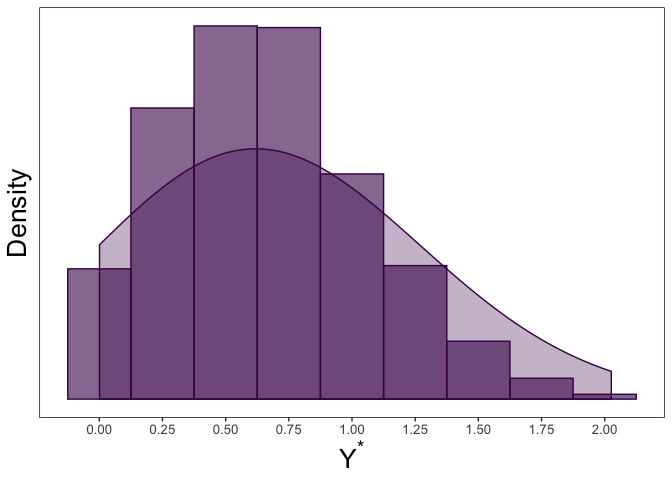
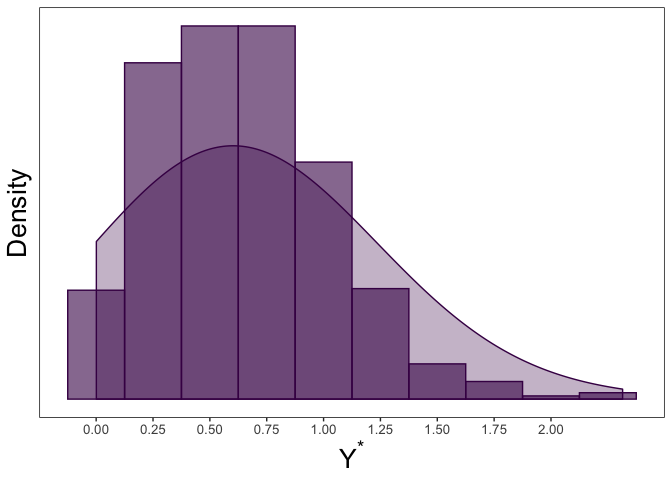
changing installation title to proper package name on README

diff --git a/README.md b/README.md
@@ -1,4 +1,5 @@
-Maximum Likelihood Estimation of a Truncated Normal Distribution with Censored Data
+Maximum Likelihood Estimation of a Truncated Normal Distribution with
+Censored Data
 ================
 
 The goal of this package is to estimate parameters from a linear model
@@ -11,14 +12,13 @@ packages.
 
 # Installation
 
-You can install ggplot.spaghetti from github via the devtools package
-with:
+You can install `tcensReg` from GitHub via the devtools package with:
 
 ``` r
 install.packages("devtools")
 devtools::install_github("williazo/tcensReg")
 #to install the package with the accompaining vignette use the command below
-devtools::install_github("williazo/tcensReg",
+devtools::install_github("williazo/tcensReg", 
                          build_opts=c("--no-resave-data", "--no-manual"),
                          build_vignettes=TRUE)
 ```
@@ -38,7 +38,7 @@ setting a=0. We generate this truncated normal data below and refer to
 it as `y_star`.
 
 ``` r
-library(msm)
+library(msm) 
 mu <- 0.5
 sigma <- 0.5
 a <- 0
@@ -48,7 +48,7 @@ y_star <- msm::rtnorm(n=1000, mean=mu, sd=sigma, lower=a)
 round(range(y_star), 3)
 ```
 
-    ## [1] 0.001 2.026
+    ## [1] 0.001 2.315
 
 Next, we can imagine a scenario where we have an imprecise measurement
 of `y_star` leading to censoring. In our case we assume that values
@@ -61,14 +61,14 @@ In the example below we set our limit of detection as `nu`=0.25.
 nu <- 0.25
 y <- ifelse(y_star <= nu, nu, y_star)
 #calculating the number of censored observations
-sum(y == nu)/length(y)
+sum(y == nu)/length(y) 
 ```
 
-    ## [1] 0.171
+    ## [1] 0.169
 
 ``` r
 #collecting the uncensored and censored data together
-dt <- data.frame(y_star, y)
+dt <- data.frame(y_star, y) 
 ```
 
 We can observe the histogram and density plot for the uncensored data,
@@ -89,22 +89,22 @@ tcensReg(y ~ 1, data=dt, a=0, v=0.25)
 
     ## $theta
     ##               Estimate
-    ## (Intercept)  0.5435955
-    ## log_sigma   -0.7216200
-    ##
+    ## (Intercept)  0.5189561
+    ## log_sigma   -0.7221709
+    ## 
     ## $iterations
     ## [1] 5
-    ##
+    ## 
     ## $initial_ll
-    ## [1] -668.4731
-    ##
+    ## [1] -650.9469
+    ## 
     ## $final_ll
-    ## [1] -657.1288
-    ##
+    ## [1] -637.8782
+    ## 
     ## $var_cov
     ##               (Intercept)     log_sigma
-    ## (Intercept)  0.0006611558 -0.0006590367
-    ## log_sigma   -0.0006590367  0.0014293139
+    ## (Intercept)  0.0007132681 -0.0007207643
+    ## log_sigma   -0.0007207643  0.0014917831
 
 Note that the this will return parameter estimates, variance-covariance
 matrix, the number of iterations until convergence, and the
@@ -117,15 +117,15 @@ unbiased.
 #tcensReg model
 output <- tcensReg(y ~ 1, data=dt, a=a, v=nu)
 #extracting the point estimates
-tcensReg_est <- output$theta
+tcensReg_est <- output$theta 
 #exponentiating the estimate of log_sigma to obtain sigma
-tcensReg_est[2] <- exp(tcensReg_est[2])
+tcensReg_est[2] <- exp(tcensReg_est[2]) 
 
 #OLS model
-lm_output <- lm(y ~ 1, data=dt)
+lm_output <- lm(y ~ 1, data=dt) 
 lm_est <- c(coef(lm_output), summary(lm_output)$sigma)
 #censored only model, i.e., Tobit model
-cens_output <- tcensReg(y ~ 1, data=dt, v=nu)
+cens_output <- tcensReg(y ~ 1, data=dt, v=nu) 
 ```
 
     ## Warning: `a` is not specified indicating no truncation
@@ -150,9 +150,9 @@ knitr::kable(results_df, format="markdown", digits=4)
 |            |     mu |  sigma | mu\_bias | sigma\_bias |
 | :--------- | -----: | -----: | -------: | ----------: |
 | Truth      | 0.5000 | 0.5000 |   0.0000 |      0.0000 |
-| tcensReg   | 0.5436 | 0.4860 |   0.0436 |      0.0140 |
-| Normal MLE | 0.6828 | 0.3704 |   0.1828 |      0.1296 |
-| Tobit      | 0.6427 | 0.4316 |   0.1427 |      0.0684 |
+| tcensReg   | 0.5190 | 0.4857 |   0.0190 |      0.0143 |
+| Normal MLE | 0.6663 | 0.3665 |   0.1663 |      0.1335 |
+| Tobit      | 0.6269 | 0.4257 |   0.1269 |      0.0743 |
 
 Other methods result in significant bias for both `mu` and `sigma`.
 
@@ -171,10 +171,10 @@ cens <- microbenchmark(tcensReg_method = tcensReg(y ~ 1, data=dt, v=nu),
 knitr::kable(summary(cens), format="markdown", digits=4)
 ```
 
-| expr             |     min |      lq |    mean |  median |      uq |      max | neval |
-| :--------------- | ------: | ------: | ------: | ------: | ------: | -------: | ----: |
-| tcensReg\_method |  4.7981 |  5.6043 |  7.5102 |  6.4579 |  8.0752 |  28.8798 |   100 |
-| censReg\_method  | 15.0433 | 17.9193 | 27.5966 | 22.8280 | 28.0810 | 187.2731 |   100 |
+| expr             |     min |      lq |    mean |  median |      uq |     max | neval |
+| :--------------- | ------: | ------: | ------: | ------: | ------: | ------: | ----: |
+| tcensReg\_method |  4.6379 |  4.8512 |  6.3422 |  5.0025 |  6.3376 | 20.1618 |   100 |
+| censReg\_method  | 12.9750 | 13.7025 | 19.2394 | 19.0990 | 21.8625 | 40.6805 |   100 |
 
 ``` r
 #point estimates are equivalent
@@ -193,10 +193,10 @@ trunc <- microbenchmark(tcensReg_method = tcensReg(y_star ~ 1, data=dt, a=a),
 knitr::kable(summary(trunc), format="markdown", digits=4)
 ```
 
-| expr             |     min |      lq |    mean |  median |      uq |      max | neval |
-| :--------------- | ------: | ------: | ------: | ------: | ------: | -------: | ----: |
-| tcensReg\_method |  8.5226 |  9.7616 | 11.9713 | 10.8375 | 13.4695 |  36.5793 |   100 |
-| truncreg\_method | 27.3353 | 30.5580 | 38.8867 | 34.0826 | 40.0806 | 175.2784 |   100 |
+| expr             |     min |      lq |   mean |  median |      uq |      max | neval |
+| :--------------- | ------: | ------: | -----: | ------: | ------: | -------: | ----: |
+| tcensReg\_method |  8.2999 |  8.5009 | 11.302 |  8.7389 | 10.7705 | 150.1723 |   100 |
+| truncreg\_method | 29.9381 | 33.6737 | 36.930 | 37.3379 | 39.4693 |  45.7826 |   100 |
 
 ``` r
 tcensReg_est <- as.numeric(tcensReg(y_star ~ 1, data=dt, a=a)$theta)
@@ -206,4 +206,4 @@ truncreg_est <- as.numeric(coef(truncreg(y_star ~ 1, point=a, data=dt)))
 all.equal(tcensReg_est, truncreg_est)
 ```
 
-    ## [1] "Mean relative difference: 2.851958e-08"
+    ## [1] TRUE
